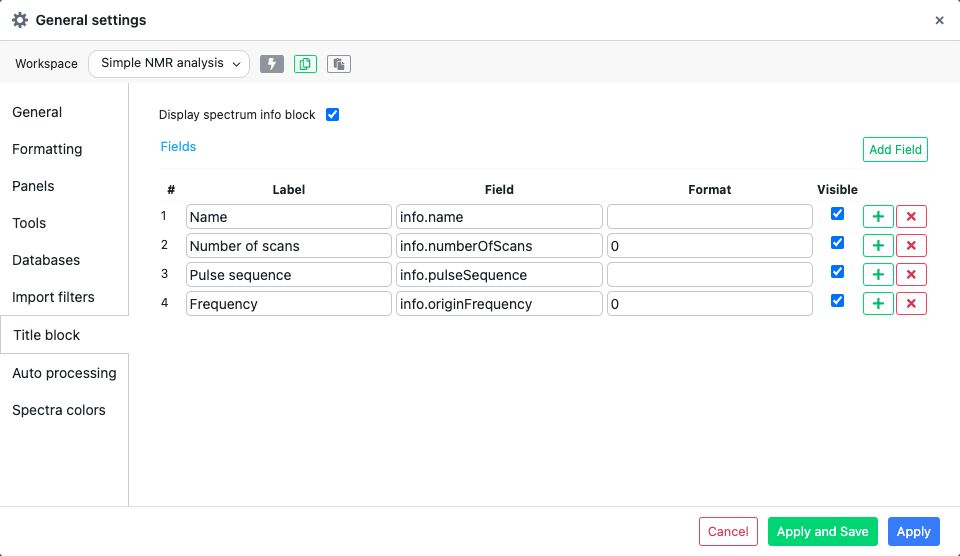
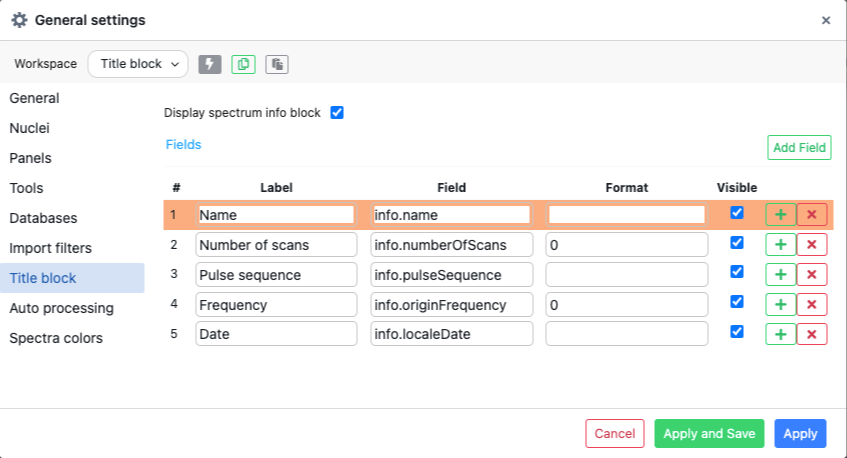
feat: add info about getting the name correct in title block

diff --git a/docs/10_general/95_settings/95_title_block.md b/docs/10_general/95_settings/95_title_block.md
@@ -17,3 +17,25 @@ You are also able to fully customize the fields you would like to display.
 ![](./title_block.gif)
 
 This involves adding any parameter present in the experiment, such as solvent, pulse sequence, etc.
+
+:::tip Various dates
+
+In the field `info` we have 3 different dates:
+
+![](./date_configuration.png)
+
+- `info.localeDate`, the representation of the date based on your local preferences
+- `info.date`, the GMT date
+- `info.epoch`, the number of elapsed milliseconds since January 1, 1970
+
+Here is an example on how those 3 fields are rendered:
+
+![](./date_display.png)
+
+:::
+
+## Getting the name correct
+
+The `info.name` is extracted from the filename that is being loaded in NMRium. If you have Bruker folder you should not drag / drop the folder containing the experiment (like `1` for example) but the parent folder of the experiment.
+
+![](./correct_name.gif)
